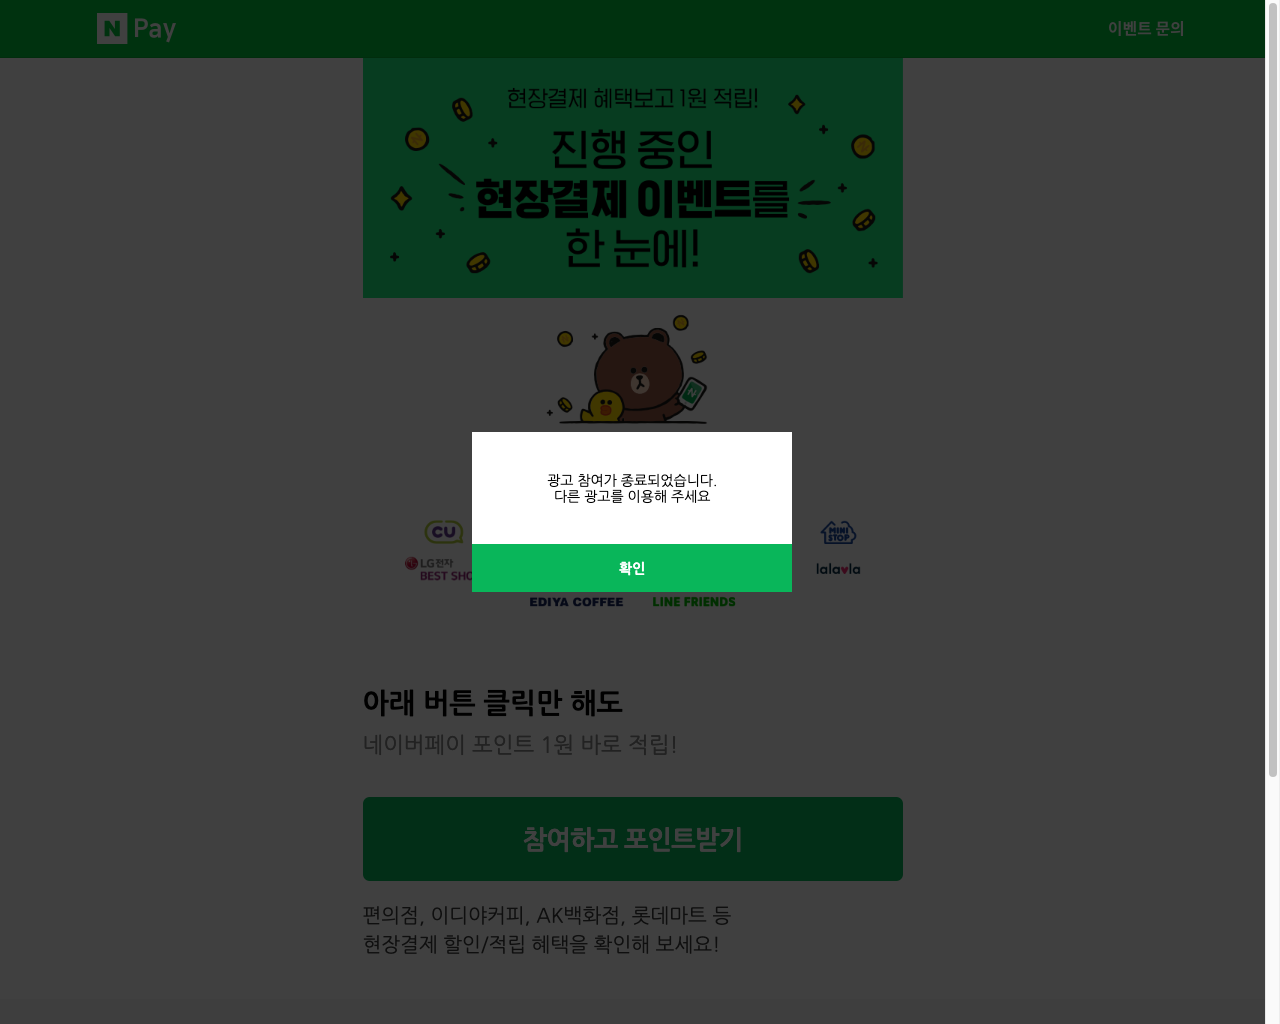
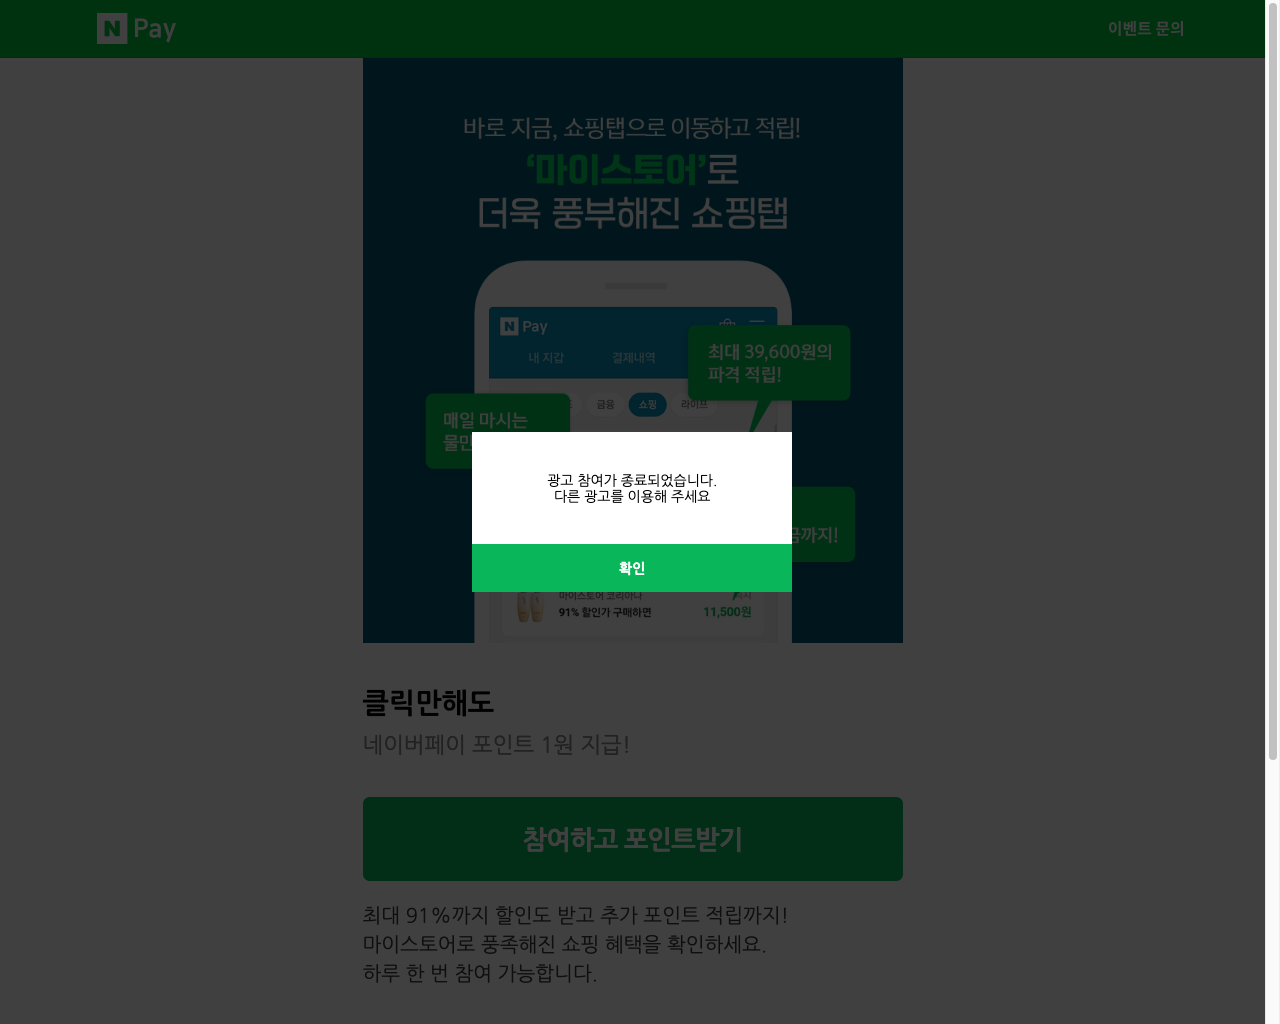
Feat(indexDev): 3차 광고 알고리즘 수정, 코드 정리
3차 광고 1, 2차 광고 알고리즘 적용 및 코드 정리

diff --git a/indexDev.js b/indexDev.js
@@ -16,6 +16,7 @@
  * 2023/01/05        wj       코드 정리
  * 2023/01/07        wj       1, 2차 광고 알고리즘 수정, 일부 로그 메시지 수정
  * 2023/01/08        wj       2차 광고 버그 수정(실제로 적립이 안되었는데 성공 메시지 출력)
+ * 2023/01/10        wj       3차 광고 알고리즘 전면 수정, 코드 정리
  */
 /* Reference
  * 파이썬 - 셀레니움으로 네이버 로그인하기, 캡차(보안문자) 우회 : https://private.tistory.com/119
@@ -52,7 +53,7 @@ if (!config.id || !config.pw) {
 
     try {
         let today = new Date();
-        schedule.scheduleJob('02 00 10 * * *', () => { // 매일 오전 10시 프로그램 작동
+        schedule.scheduleJob('48 01 04 * * *', () => { // 매일 오전 10시 프로그램 작동
             console.log("현재 시간: " + today.toLocaleString() + " 네이버 페이 자동 출첵이 시작되었습니다.");
             Job(); // 자동화
         });
@@ -85,13 +86,12 @@ if (!config.id || !config.pw) {
 
         ////////////////////네이버 로그인 실패처리////////////////////
 
-        try{
+        try {
             const errMsg = await page.$("#err_common > div");
-            let loginErrMsg = "\n" +"                                        아이디(로그인 전용 아이디) 또는 비밀번호를 잘못 입력했습니다."+
-                " 입력하신 내용을 다시 확인해주세요.\n" + "                                    ";
+            let loginErrMsg = "\n" + "                                        아이디(로그인 전용 아이디) 또는 비밀번호를 잘못 입력했습니다." + " 입력하신 내용을 다시 확인해주세요.\n" + "                                    ";
             const errMsgText = await page.evaluate(errMsg => errMsg.textContent, errMsg);
 
-            if(errMsgText == loginErrMsg) {
+            if (errMsgText == loginErrMsg) {
                 console.log("아이디 또는 비밀번호가 맞지 않습니다. 다시 확인후 시도해주십시오.");
                 await page.screenshot({
                     path: 'Screenshot/loginFail.png', fullPage: false
@@ -108,125 +108,110 @@ if (!config.id || !config.pw) {
         }
 
         ////////////////////1차 광고////////////////////
-        // async function ad1() {
-
-            try {
-                await page.goto('https://ofw.adison.co/u/naverpay/ads/55162'); // 오전 8시 마이스토어
-                await page.waitForTimeout(2000);
+        try {
+            await page.goto('https://ofw.adison.co/u/naverpay/ads/55162'); // 오전 8시 마이스토어
+            await page.waitForTimeout(2000);
+            await page.screenshot({
+                path: 'Screenshot/NPay1.png', fullPage: false
+            });
+            console.log("1차 광고 페이지 접속에 성공하였습니다.")
+        } catch (e) {
+            let errorMsg = "1차 적립 페이지에 접속 할 수 없습니다. 다시 확인후 재시도 해주십시오."
+            await page.screenshot({
+                path: 'Screenshot/NPayFailAccess1.png', fullPage: false
+            });
+            throw Error(errorMsg + e);
+        }
+        try {
+            await page.waitForTimeout(5000);
+            let possibleBtn = "\n" + "                  참여하고 포인트받기\n" + "              ";
+            const callToActionBtn = await page.$("#app > div:nth-child(2) > div > div > div > button > span");
+            const btnText = await page.evaluate(callToActionBtn => callToActionBtn.textContent, callToActionBtn);
+            console.log("버튼상태: " + btnText);
+            if (btnText == possibleBtn) {
+                console.log("현재 상태 광고 참여 가능합니다. 이어서 진행합니다.");
+                await page.click("#app > div:nth-child(2) > div > div > div > button"); // 포인트 받기 버튼
+                await page.waitForTimeout(3000);
                 await page.screenshot({
-                    path: 'Screenshot/NPay1.png', fullPage: false
+                    path: 'Screenshot/NPaySuccess1.png', fullPage: false
                 });
-                console.log("1차 광고 페이지 접속에 성공하였습니다.")
-            } catch (e) {
-                let errorMsg = "1차 적립 페이지에 접속 할 수 없습니다. 다시 확인후 재시도 해주십시오."
-                await page.screenshot({
-                    path: 'Screenshot/NPayFailAccess1.png', fullPage: false
-                });
-                throw Error(errorMsg + e);
-            }
-            try {
-                await page.waitForTimeout(5000);
-
-                let possibleBtn = "\n"+"                  참여하고 포인트받기\n"+"              ";
-                const callToActionBtn = await page.$("#app > div:nth-child(2) > div > div > div > button > span");
-                const btnText = await page.evaluate(callToActionBtn => callToActionBtn.textContent, callToActionBtn);
-                console.log("버튼상태: "+btnText);
-
-                if(btnText == possibleBtn){
-                    console.log("현재 상태 광고 참여 가능합니다. 이어서 진행합니다.");
-                    await page.click("#app > div:nth-child(2) > div > div > div > button"); // 포인트 받기 버튼
-                    await page.waitForTimeout(3000);
-                    await page.screenshot({
-                        path: 'Screenshot/NPaySuccess1.png', fullPage: false
-                    });
-                    console.log("1차 적립을 성공하였습니다.");
-                }
-
-                let completionBtn = "\n"+"                  참여 완료\n" +"              ";
-                if(btnText == completionBtn){
-                    console.log("광고 참여 완료가 확인되어 출첵이 되지 않았습니다.\n이어서 2차 광고 적립을 진행합니다.");
-                    await page.screenshot({
-                        path: 'Screenshot/NPayResult1.png', fullPage: false
-                    });
-                    await page.waitForTimeout(1000);
-                    // await ad2(); // 2차 광고 실행
-
-                    // return;
-                }
-
-                let endAd = "광고 참여가 종료되었습니다.다른 광고를 이용해 주세요 ";
-                const modal =await page.$("#app > div.blocker.current > div > div:nth-child(1)");
-                const modalText = await page.evaluate(modal => modal.textContent, modal);
-                console.log("알림창 내용: "+modalText);
-
-                if(modalText == endAd){
-                    await page.screenshot({
-                        path: 'Screenshot/NPayEnd1.png', fullPage: false
-                    });
-                    console.log("광고가 종료되어 출첵을 실패하였습니다. 확인후 다시 시도 해주세요.");
-                    // return;
-                }
-
-            } catch (e) {
-
-                // await ad2(); // 2차 광고 실행
+                console.log("1차 적립을 성공하였습니다.");
             }
 
-        // }
+            let completionBtn = "\n" + "                  참여 완료\n" + "              ";
+            if (btnText == completionBtn) {
+                console.log("광고 참여 완료가 확인되어 출첵이 되지 않았습니다.\n이어서 2차 광고 적립을 진행합니다.");
+                await page.screenshot({
+                    path: 'Screenshot/NPayResult1.png', fullPage: false
+                });
+                await page.waitForTimeout(1000);
+            }
+
+            let endAd = "광고 참여가 종료되었습니다.다른 광고를 이용해 주세요 ";
+            const modal = await page.$("#app > div.blocker.current > div > div:nth-child(1)");
+            const modalText = await page.evaluate(modal => modal.textContent, modal);
+            console.log("알림창 내용: " + modalText);
+
+            if (modalText == endAd) {
+                await page.screenshot({
+                    path: 'Screenshot/NPayEnd1.png', fullPage: false
+                });
+                console.log("광고가 종료되어 출첵을 실패하였습니다. 확인후 다시 시도 해주세요.");
+            }
+
+        } catch (e) {
+
+        }
 
         ////////////////////2차 광고////////////////////
-        // async function ad2() {
-            try {
-                await page.goto('https://ofw.adison.co/u/naverpay/ads/72557'); // 오전 10시 현장결제
-                await page.waitForTimeout(2000);
-                await page.screenshot({
-                    path: 'Screenshot/NPay2.png', fullPage: false
-                });
-                console.log("2차 광고 페이지 접속에 성공하였습니다.")
-            } catch (e) {
-                let errorMsg = "2차 적립 페이지에 접속 할 수 없습니다. 다시 확인후 재시도 해주십시오."
-                await page.screenshot({
-                    path: 'Screenshot/NPayFailAccess2.png', fullPage: false
-                });
-                throw Error(errorMsg + e);
-            }
+        try {
+            await page.goto('https://ofw.adison.co/u/naverpay/ads/72557'); // 오전 10시 현장결제
+            await page.waitForTimeout(2000);
+            await page.screenshot({
+                path: 'Screenshot/NPay2.png', fullPage: false
+            });
+            console.log("2차 광고 페이지 접속에 성공하였습니다.")
+        } catch (e) {
+            let errorMsg = "2차 적립 페이지에 접속 할 수 없습니다. 다시 확인후 재시도 해주십시오."
+            await page.screenshot({
+                path: 'Screenshot/NPayFailAccess2.png', fullPage: false
+            });
+            throw Error(errorMsg + e);
+        }
         try {
             await page.waitForTimeout(5000);
 
-            let possibleBtn = "\n"+"                  참여하고 포인트받기\n"+"              ";
+            let possibleBtn = "\n" + "                  참여하고 포인트받기\n" + "              ";
             const callToActionBtn = await page.$("#app > div:nth-child(2) > div > div > div > button > span");
             const btnText = await page.evaluate(callToActionBtn => callToActionBtn.textContent, callToActionBtn);
-            console.log("버튼상태: "+btnText);
+            console.log("버튼상태: " + btnText);
 
-            if(btnText == possibleBtn){
+            if (btnText == possibleBtn) {
                 console.log("현재 상태 광고 참여 가능합니다. 이어서 진행합니다.");
                 await page.click("#app > div:nth-child(2) > div > div > div > button"); // 포인트 받기 버튼
                 await page.waitForTimeout(3000);
 
             }
 
-            let completionBtn = "\n"+"                  참여 완료\n" +"              ";
-            if(btnText == completionBtn){
+            let completionBtn = "\n" + "                  참여 완료\n" + "              ";
+            if (btnText == completionBtn) {
                 console.log("광고 참여 완료가 확인되어 출첵이 되지 않았습니다.\n이어서 3차 광고 적립을 진행합니다.");
                 await page.screenshot({
                     path: 'Screenshot/NPayResult2.png', fullPage: false
                 });
                 await page.waitForTimeout(1000);
-                // await ad2(); // 2차 광고 실행
-                // return;
             }
 
             let endAd = "광고 참여가 종료되었습니다.다른 광고를 이용해 주세요 ";
-            const modal =await page.$("#app > div.blocker.current > div > div:nth-child(1)");
+            const modal = await page.$("#app > div.blocker.current > div > div:nth-child(1)");
             const modalText = await page.evaluate(modal => modal.textContent, modal);
-            console.log("알림창 내용: "+modalText);
+            console.log("알림창 내용: " + modalText);
 
-            if(modalText == endAd){
+            if (modalText == endAd) {
                 await page.screenshot({
                     path: 'Screenshot/NPayEnd2.png', fullPage: false
                 });
                 console.log("광고가 종료되어 출첵을 실패하였습니다. 확인후 다시 시도 해주세요.");
-                // return;
             }
 
         } catch (e) {
@@ -234,41 +219,69 @@ if (!config.id || !config.pw) {
                 path: 'Screenshot/NPaySuccess2.png', fullPage: false
             });
             console.log("2차 적립을 성공하였습니다.");
-
-            // await ad2(); // 2차 광고 실행
         }
-        // }
 
         ////////////////////3차 광고////////////////////
 
         try {
-            await page.waitForTimeout(2000);
             await page.goto('https://ofw.adison.co/u/naverpay/ads/67823') // 오전 10시 즉시적립
+            await page.waitForTimeout(2000);
+            await page.screenshot({
+                path: 'Screenshot/NPay3.png', fullPage: false
+            });
             console.log("3차 광고 페이지 접속에 성공하였습니다.")
-
         } catch (e) {
             let errorMsg = "3차 적립 페이지에 접속 할 수 없습니다. 다시 확인후 재시도 해주십시오."
+            await page.screenshot({
+                path: 'Screenshot/NPayFailAccess3.png', fullPage: false
+            });
             throw Error(errorMsg + e);
         }
         try {
-            await page.waitForTimeout(7000);
-            await page.click("#app > div:nth-child(2) > div > div > div > button");
-            await page.waitForTimeout(3000);
-            await page.screenshot({
-                path: 'Screenshot/NPayResult3.png', fullPage: false
-            });
-            console.log("3차 적립을 성공하였습니다.")
+            await page.waitForTimeout(5000);
+
+            let possibleBtn = "\n" + "                  참여하고 포인트받기\n" + "              ";
+            const callToActionBtn = await page.$("#app > div:nth-child(2) > div > div > div > button > span");
+            const btnText = await page.evaluate(callToActionBtn => callToActionBtn.textContent, callToActionBtn);
+            console.log("버튼상태: " + btnText);
+
+            if (btnText == possibleBtn) {
+                console.log("현재 상태 광고 참여 가능합니다. 이어서 진행합니다.");
+                await page.click("#app > div:nth-child(2) > div > div > div > button"); // 포인트 받기 버튼
+                await page.waitForTimeout(3000);
+
+            }
+
+            let completionBtn = "\n" + "                  참여 완료\n" + "              ";
+            if (btnText == completionBtn) {
+                console.log("광고 참여 완료가 확인되어 출첵이 되지 않았습니다.\n");
+                await page.screenshot({
+                    path: 'Screenshot/NPayResult3.png', fullPage: false
+                });
+                await page.waitForTimeout(1000);
+            }
+
+            let endAd = "광고 참여가 종료되었습니다.다른 광고를 이용해 주세요 ";
+            const modal = await page.$("#app > div.blocker.current > div > div:nth-child(1)");
+            const modalText = await page.evaluate(modal => modal.textContent, modal);
+            console.log("알림창 내용: " + modalText);
+
+            if (modalText == endAd) {
+                await page.screenshot({
+                    path: 'Screenshot/NPayEnd3.png', fullPage: false
+                });
+                console.log("광고가 종료되어 출첵을 실패하였습니다. 확인후 다시 시도 해주세요.");
+                // return;
+            }
 
         } catch (e) {
-            await page.waitForTimeout(2000);
             await page.screenshot({
-                path: 'Screenshot/NPayFail3.png', fullPage: false
+                path: 'Screenshot/NPaySuccess3.png', fullPage: false
             });
-            throw  Error("3차 포인트 받기 버튼 클릭 실패!" + e);
-        }
-        finally {
+            console.log("3차 적립을 성공하였습니다.");
+        } finally {
             let today = new Date();
-            console.log("네이버 페이 포인트 줍기를 완료하였습니다.\n적립이 되었는지 실제로 확인 하십시오.\n완료 시각: "+today.toLocaleString());
+            console.log("네이버 페이 포인트 줍기를 완료하였습니다.\n적립이 되었는지 실제로 확인 하십시오.\n완료 시각: " + today.toLocaleString());
         }
     }
 
